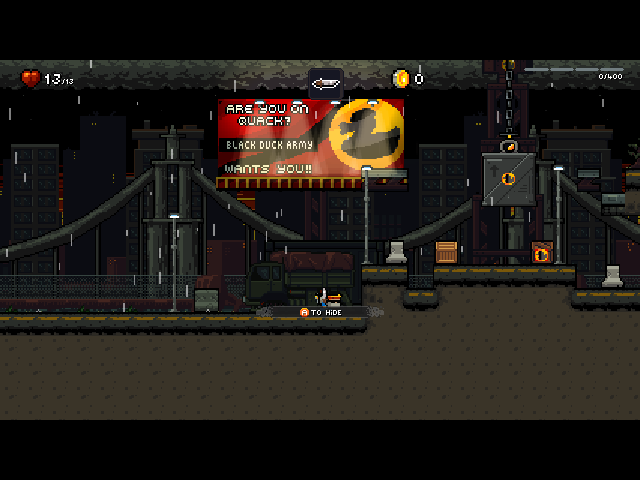
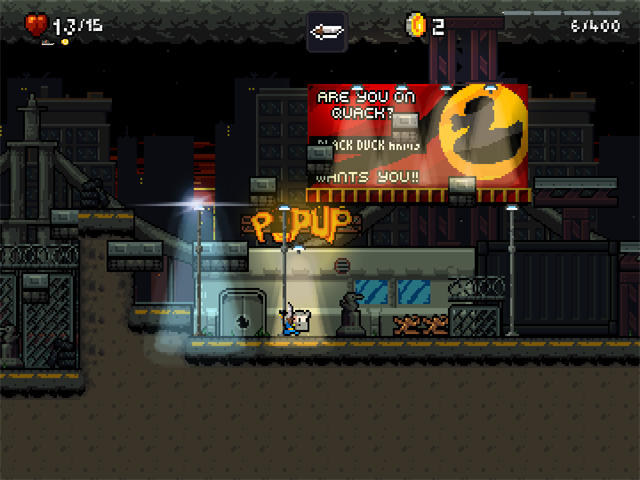
Corrected and optimized the control - Add a new screen shot

diff --git a/src/org/portmaster/gunslugs3/Main.java b/src/org/portmaster/gunslugs3/Main.java
@@ -11,6 +11,7 @@ import java.nio.file.*;
 
 /** Native desktop libGDX host. All original game code stays in the owner's jar. */
 public class Main extends myCanvas {
+    private static final int LEGACY_ESCAPE_KEY = 131;
     public final DisplayLayout layout = new DisplayLayout();
     protected Graphics physicalGraphics;
     private GL20 physicalGl;
@@ -63,17 +64,28 @@ public class Main extends myCanvas {
         });
         argument_noController = true;
         super.create();
-        InputProcessor input = Gdx.input.getInputProcessor();
-        Gdx.input.setInputProcessor((InputProcessor)Proxy.newProxyInstance(Main.class.getClassLoader(),new Class<?>[]{InputProcessor.class},(self,method,args)-> {
-            if (method.getName().startsWith("touch") || method.getName().equals("mouseMoved")) {
-                args = args.clone(); args[0] = layout.inputX((Integer)args[0]); args[1] = layout.inputY((Integer)args[1]);
-            }
-            return delegate(input,method,args);
-        }));
+        Gdx.input.setInputProcessor(inputBridge(Gdx.input.getInputProcessor(),layout));
         ready = true;
         resize(physicalGraphics.getWidth(),physicalGraphics.getHeight());
         start = System.nanoTime();
         System.out.println("GAME_CREATE_OK offline; PortMaster keyboard input; saves=" + System.getProperty("gunslugs3.saves","saves"));
+    }
+
+    static InputProcessor inputBridge(InputProcessor input,DisplayLayout layout) {
+        return (InputProcessor)Proxy.newProxyInstance(Main.class.getClassLoader(),new Class<?>[]{InputProcessor.class},(self,method,args)-> {
+            String name = method.getName();
+            if ((name.equals("keyDown") || name.equals("keyUp")) && (Integer)args[0] == Input.Keys.ESCAPE) {
+                Object[] legacyArgs = args.clone();
+                legacyArgs[0] = LEGACY_ESCAPE_KEY;
+                boolean legacyHandled = (Boolean)delegate(input,method,legacyArgs);
+                boolean currentHandled = (Boolean)delegate(input,method,args);
+                return legacyHandled || currentHandled;
+            }
+            if (name.startsWith("touch") || name.equals("mouseMoved")) {
+                args = args.clone(); args[0] = layout.inputX((Integer)args[0]); args[1] = layout.inputY((Integer)args[1]);
+            }
+            return delegate(input,method,args);
+        });
     }
 
     @Override public void resize(int width,int height) {

diff --git a/tests/InputBridgeTest.java b/tests/InputBridgeTest.java
@@ -1,0 +1,53 @@
+package org.portmaster.gunslugs3;
+
+import com.badlogic.gdx.Input;
+import com.badlogic.gdx.InputAdapter;
+import com.badlogic.gdx.InputProcessor;
+import java.util.ArrayList;
+import java.util.Arrays;
+import java.util.List;
+
+public class InputBridgeTest {
+    private static final class RecordingInput extends InputAdapter {
+        final List<Integer> pressed = new ArrayList<>();
+        final List<Integer> released = new ArrayList<>();
+        int acceptedKey = 131;
+
+        @Override public boolean keyDown(int keycode) {
+            pressed.add(keycode);
+            return keycode == acceptedKey;
+        }
+
+        @Override public boolean keyUp(int keycode) {
+            released.add(keycode);
+            return keycode == acceptedKey;
+        }
+    }
+
+    public static void main(String[] args) {
+        DisplayLayout layout = new DisplayLayout();
+        layout.resize(720,480);
+        RecordingInput target = new RecordingInput();
+        InputProcessor bridge = Main.inputBridge(target,layout);
+        require(bridge.keyDown(Input.Keys.ESCAPE),"Legacy Escape was not handled");
+        require(bridge.keyUp(Input.Keys.ESCAPE),"Legacy Escape was not released");
+        require(target.pressed.equals(Arrays.asList(131,Input.Keys.ESCAPE)),"Missing Escape alias press");
+        require(target.released.equals(target.pressed),"Escape aliases have unmatched releases");
+        target.acceptedKey = Input.Keys.ESCAPE;
+        require(bridge.keyDown(Input.Keys.ESCAPE),"Modern saved Escape binding was not handled");
+        require(bridge.keyUp(Input.Keys.ESCAPE),"Modern saved Escape binding was not released");
+        target.pressed.clear();
+        target.released.clear();
+        for (int keycode : new int[]{Input.Keys.ENTER,Input.Keys.X,Input.Keys.UP,Input.Keys.F1}) {
+            bridge.keyDown(keycode);
+            bridge.keyUp(keycode);
+        }
+        require(target.pressed.equals(Arrays.asList(Input.Keys.ENTER,Input.Keys.X,Input.Keys.UP,Input.Keys.F1)),"Other keys changed");
+        require(target.released.equals(target.pressed),"Other keys have unmatched releases");
+        System.out.println("INPUT_BRIDGE_OK legacy Escape, modern saved bindings, balanced releases, unchanged keys");
+    }
+
+    private static void require(boolean condition,String message) {
+        if (!condition) throw new AssertionError(message);
+    }
+}

diff --git a/tools/verify_package.py b/tools/verify_package.py
@@ -120,8 +120,19 @@ def verify(root, generated_host=None):
             'Launcher must validate and run the game JAR from gamedata/')
     controls = configparser.ConfigParser(interpolation=None, strict=True)
     controls.read_string(files[mapping_name].decode('utf-8'))
-    require(controls['controls']['start'] == 'o', 'Start must open options')
-    require(controls['controls'].get('overlay') == 'clear', 'Explicit root controls required')
+    control_map = controls['controls']
+    require(control_map.get('overlay') == 'clear', 'Explicit root controls required')
+    for key, value in {
+        'a': 'a', 'b': 'z', 'x': 'x', 'y': 'up',
+        'l1': 'up', 'r1': 'x', 'l2': 'z', 'r2': 'tab',
+        'start': 'enter', 'back': 'esc',
+        'up': 'up', 'left_analog_up': 'up',
+        'down': 'down', 'left_analog_down': 'down',
+        'left': 'left', 'left_analog_left': 'left',
+        'right': 'right', 'left_analog_right': 'right',
+    }.items():
+        require(control_map.get(key) == value, f'Wrong controller mapping for {key}')
+    require('export HOTKEY=back' in launcher, 'PortMaster force-close hotkey is not enabled')
     for section in controls.sections():
         for key, value in controls[section].items():
             require(not key.endswith('_hk'), 'Use a v2 hotkey state')

diff --git a/tests/verify_launcher.py b/tests/verify_launcher.py
@@ -77,7 +77,7 @@ if [[ "$TEST_GAME" == mewnbase ]]; then printf '1.0.1' > "$TEST_ROOT/ports/mewnb
 exit 0
 ''')
     write(fixtures/'probes/mapper','''#!/bin/bash
-[[ "$TEST_MAPPER" == 1 && "$1" == java && "$2" == -c && "$3" == */"$TEST_MAPPING" ]] || exit 2
+[[ "$TEST_MAPPER" == 1 && "$1" == java && "$2" == -c && "$3" == */"$TEST_MAPPING" && "$#" == 3 ]] || exit 2
 echo mapper >> "$TEST_ROOT/events"
 exec /usr/bin/sleep 0.1
 ''')

diff --git a/docs/CONTROLLERS.md b/docs/CONTROLLERS.md
@@ -1,18 +1,14 @@
 # Controller support
 
-All input is supplied through PortMaster's gptokeyb2 and the shipped `.ini` mapping.
-Update PortMaster before installing. Native Xbox 360 emulation is not enabled in this
-host: its native controller path is disabled. The mapper's `-x` mode replaces keyboard
-and mouse output and requires a working native controller backend in the game.
-Do not add `-x` to this launcher; it would bypass the controls listed above.
+The launcher starts PortMaster's gptokeyb2 in keyboard-mapping mode using
+`gunslugs3.ini`. The D-pad and left stick send arrow keys. The configured
+gptokeyb buttons send: `a` → A, `b` → Z, `x` → X, and `y` → Up. L1 sends Up,
+R1 sends X, L2 sends Z, R2 sends Tab, Start sends Enter, and Back sends Escape.
+Start + Select remains PortMaster's force-close shortcut.
 
-Reviewed against the supplied PortMaster complete reference and gptokeyb2
-upstream revision 7100d030fe10a7cd5f3053cd9922249498ab3a8d.
+The GOG Controls screen lists arrow keys, Shoot X, Cancel Escape, Swap Weapon Z,
+Use R, and Pause Tab. This file records the requested gptokeyb mappings exactly.
 
-- https://github.com/PortsMaster/gptokeyb2/blob/master/ADVANCED_USAGE.md
-- https://github.com/PortsMaster/gptokeyb2/blob/master/src/main.c
-
-Native controller support would require a separate host/backend implementation
-and device tests for menu navigation, gameplay, input duplication and exit.
-The presence of controller support in the original Windows game alone does not
-verify that its controller backend runs in this ARM64 Java port.
+The launcher's `HOTKEY=back` setting keeps the PortMaster exit hotkey enabled.
+Do not add gptokeyb2's `-x` mode: this port uses keyboard input rather than the
+game's native controller path.

diff --git a/README.md b/README.md
@@ -50,24 +50,23 @@ Back up **`gunslugs3/saves/`** before updating. If startup fails, check **`gunsl
 
 | Control | Keyboard input / action |
 |---|---|
-| D-pad up | UP / Up / navigate |
-| D-pad down | DOWN / Down / navigate |
-| D-pad left | LEFT / Left / navigate |
-| D-pad right | RIGHT / Right / navigate |
-| A | X / Action / confirm |
-| B | UP / Up / navigate |
-| X | ENTER |
-| Y | Z |
-| L1 | A |
-| R1 | X / Action / confirm |
-| L2 | F1 |
-| R2 | A |
-| Start | O / Options |
-| Select | F1 |
-| Left stick | Same directions as the D-pad |
+| D-pad / left stick | Arrow keys |
+| gptokeyb `a` | A: use / interact |
+| gptokeyb `b` | Z: swap weapon |
+| gptokeyb `x` | X: shoot / menu confirm |
+| gptokeyb `y` | Up: jump |
+| L1 | Up |
+| R1 | X |
+| L2 | Z |
+| R2 | Tab |
+| Start | Enter |
+| Back / Select | Escape |
 | Select + Start | Exit; save through the game first |
 
-Use the game's default keyboard bindings. Start sends **O** for options.
+These bindings are supplied by gptokeyb2 through `gunslugs3.ini`. The supported
+Windows build uses arrow keys, Shoot X, Cancel Escape, Swap Weapon Z, Use A, and
+Pause Tab. Use X or Start to confirm menus.
+The Select + Start combination invokes PortMaster's force-close shortcut.
 
 ## Build the PortMaster package
 

diff --git a/package/README.md b/package/README.md
@@ -28,21 +28,20 @@ Back up **`gunslugs3/saves/`** before updating. If startup fails, check **`gunsl
 
 | Control | Keyboard input / action |
 |---|---|
-| D-pad up | UP / Up / navigate |
-| D-pad down | DOWN / Down / navigate |
-| D-pad left | LEFT / Left / navigate |
-| D-pad right | RIGHT / Right / navigate |
-| A | X / Action / confirm |
-| B | UP / Up / navigate |
-| X | ENTER |
-| Y | Z |
-| L1 | A |
-| R1 | X / Action / confirm |
-| L2 | F1 |
-| R2 | A |
-| Start | O / Options |
-| Select | F1 |
-| Left stick | Same directions as the D-pad |
+| D-pad / left stick | Arrow keys |
+| A | A: use / interact |
+| B | Z: swap weapon |
+| X | X: shoot / menu confirm |
+| y | Up: jump |
+| L1 | Up |
+| R1 | X |
+| L2 | Z |
+| R2 | Tab |
+| Start | Enter |
+| Back / Select | Escape |
 | Select + Start | Exit; save through the game first |
 
-Use the game's default keyboard bindings. Start sends **O** for options.
+These bindings are supplied by gptokeyb2 through `gunslugs3.ini`. The supported
+Windows build uses arrow keys, Shoot X, Cancel Escape, Swap Weapon Z, Use A, and
+Pause Tab. Use X or Start to confirm menus.
+The Select + Start combination invokes PortMaster's force-close shortcut.
